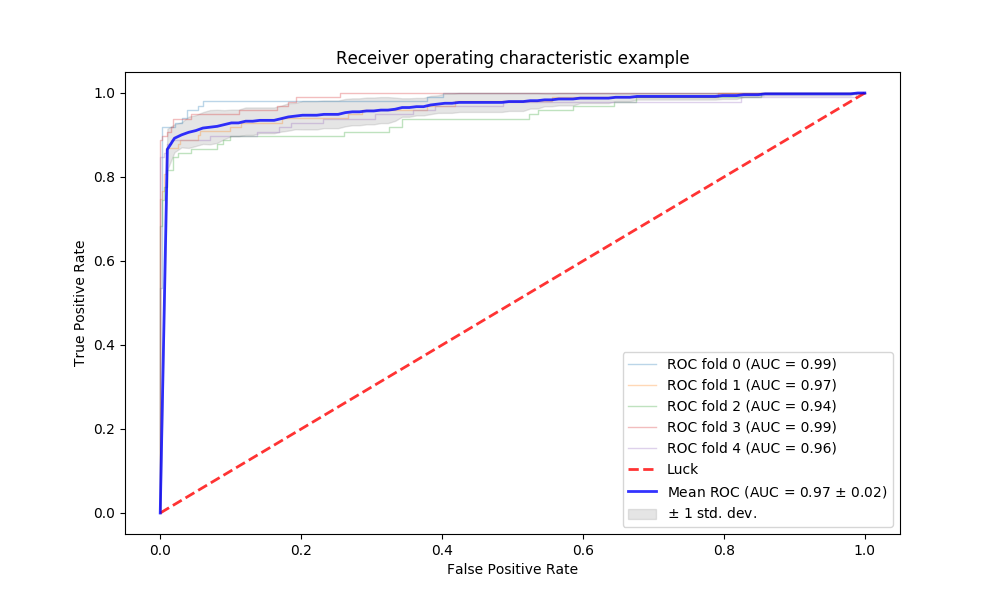
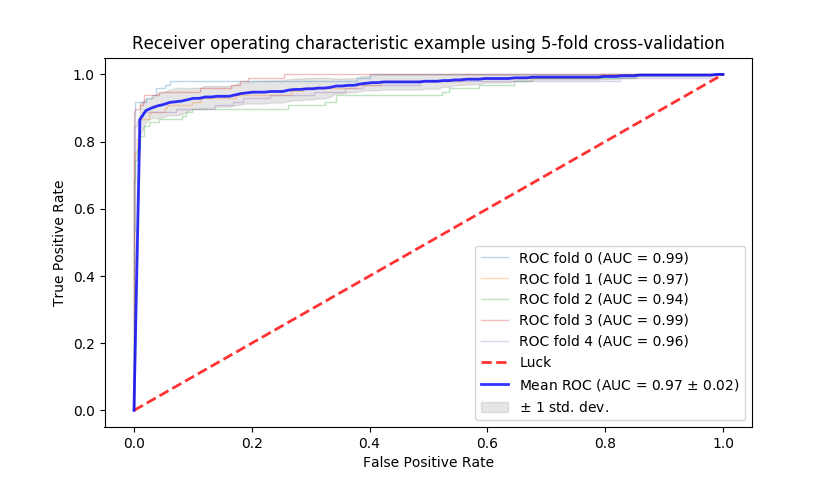
updated

diff --git a/main.py b/main.py
@@ -12,11 +12,11 @@ from sklearn.preprocessing import StandardScaler
 from sklearn.metrics import precision_recall_fscore_support
 from sklearn.metrics import roc_curve, auc
 from sklearn.model_selection import StratifiedKFold
+from sklearn.metrics import confusion_matrix
+import itertools
 from scipy import interp
 import pylab
 import matplotlib.pyplot as plt
-
-pylab.rcParams['figure.figsize'] = (10, 6)
 
 # Fix seed for reproducibility 
 seed = 24
@@ -115,6 +115,29 @@ def plot_underSamplingInfo(data):
     plt.show()
 
 """
+Plot confusion matrix
+Code taken from here: https://goo.gl/NcUCCt
+"""
+def plot_confusion_matrix(cm, classes,title='Confusion matrix',cmap=plt.cm.Blues):
+    plt.imshow(cm, interpolation='nearest', cmap=cmap)
+    plt.title(title)
+    plt.colorbar()
+    tick_marks = np.arange(len(classes))
+    plt.xticks(tick_marks, classes, rotation=45)
+    plt.yticks(tick_marks, classes)
+
+    fmt = 'd'
+    thresh = cm.max() / 2.
+    for i, j in itertools.product(range(cm.shape[0]), range(cm.shape[1])):
+        plt.text(j, i, format(cm[i, j], fmt),
+                 horizontalalignment="center",
+                 color="white" if cm[i, j] > thresh else "black")
+
+    plt.tight_layout()
+    plt.ylabel('True label')
+    plt.xlabel('Predicted label')
+
+"""
 SVM has some hyper-parameters and is still considered one of the best classifiers
 The other thing to look for is what kernel performs best and it totally depends on data
 Our options are 'rbf', 'poly', and 'sigmoid'
@@ -142,6 +165,10 @@ def svm(tr_data,tr_lb,tst_data,tst_lb,kernel='rbf'):
     print("*MESSAGE* Accuracy: {}".format(count/tst_lb.size))
     precision,recall,fscore = precision_recall_fscore_support(tst_lb,pred,average='binary')[0:3]
     print("*MESSAGE* Precision: {}, Recall: {}, F-score: {}".format(precision,recall,fscore))
+    # PLot confusion matrix
+    cnf_matrix = confusion_matrix(tst_lb,pred)
+    plot_confusion_matrix(cnf_matrix,np.array(['non-fraud','fraud'],dtype='<U10'),title="Confusion matrix: kernel={}".format(kernel))
+    plt.show()
 
 def main():
     csv_data = "creditcard.csv"
